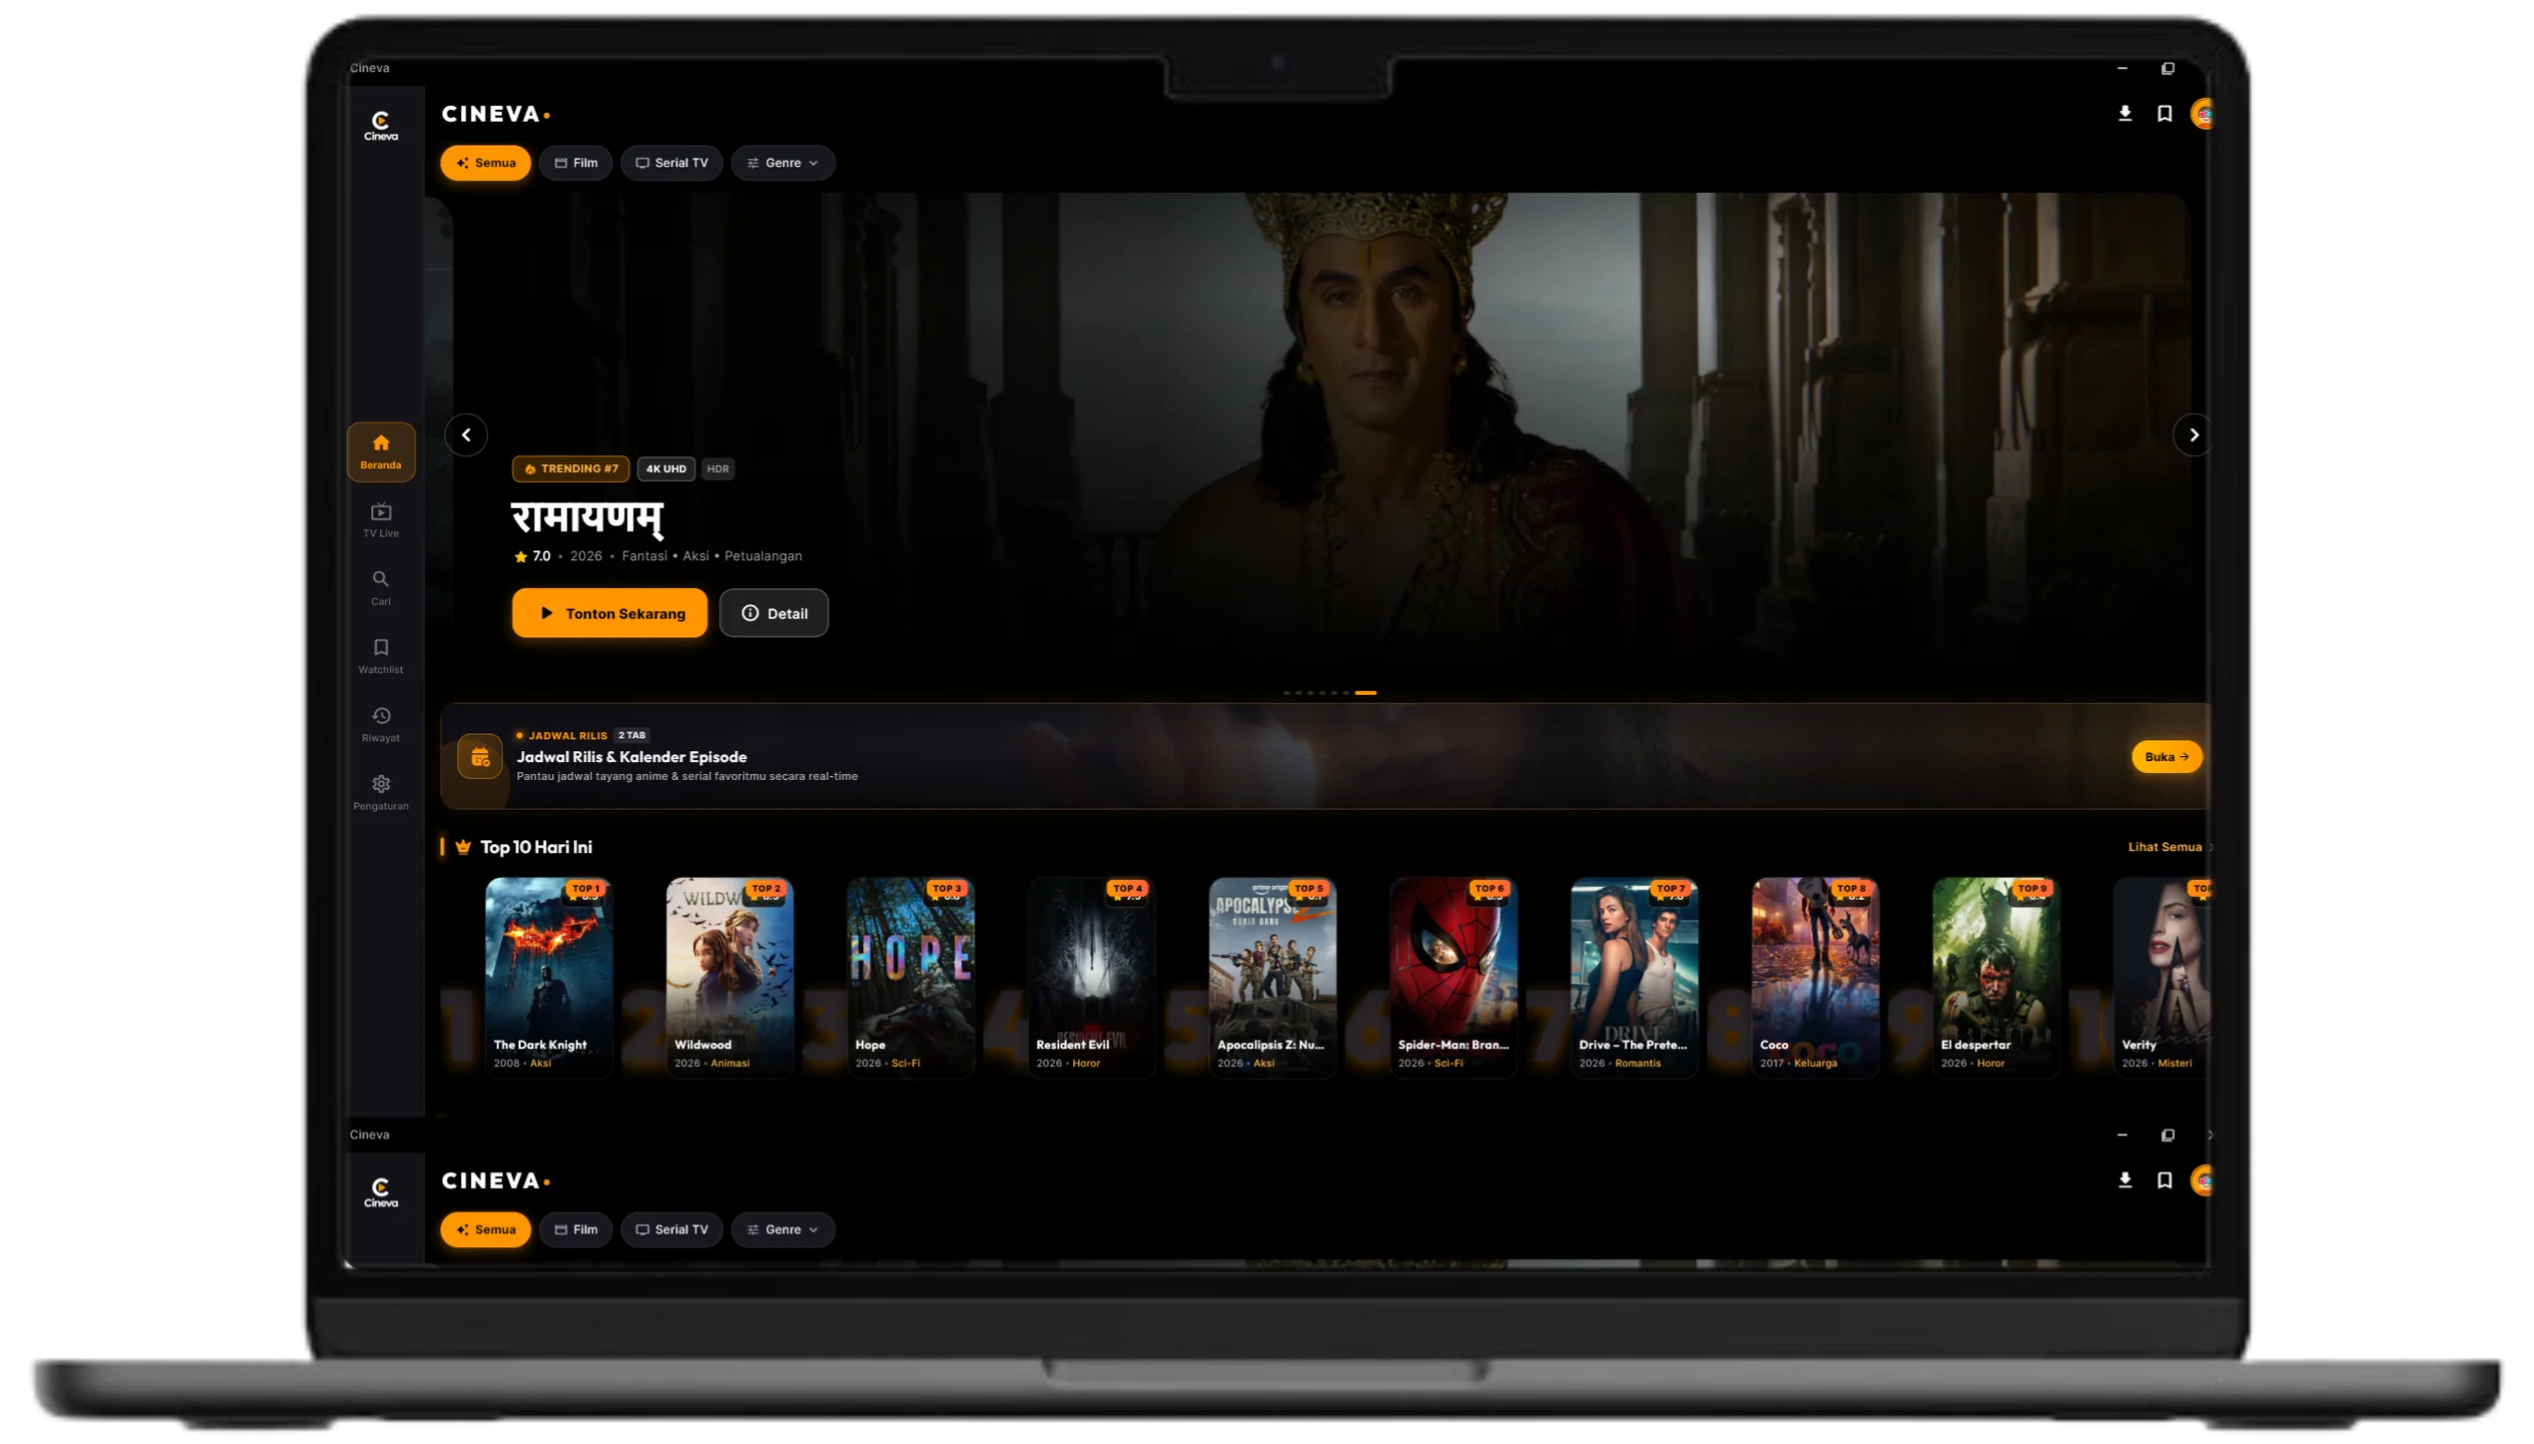
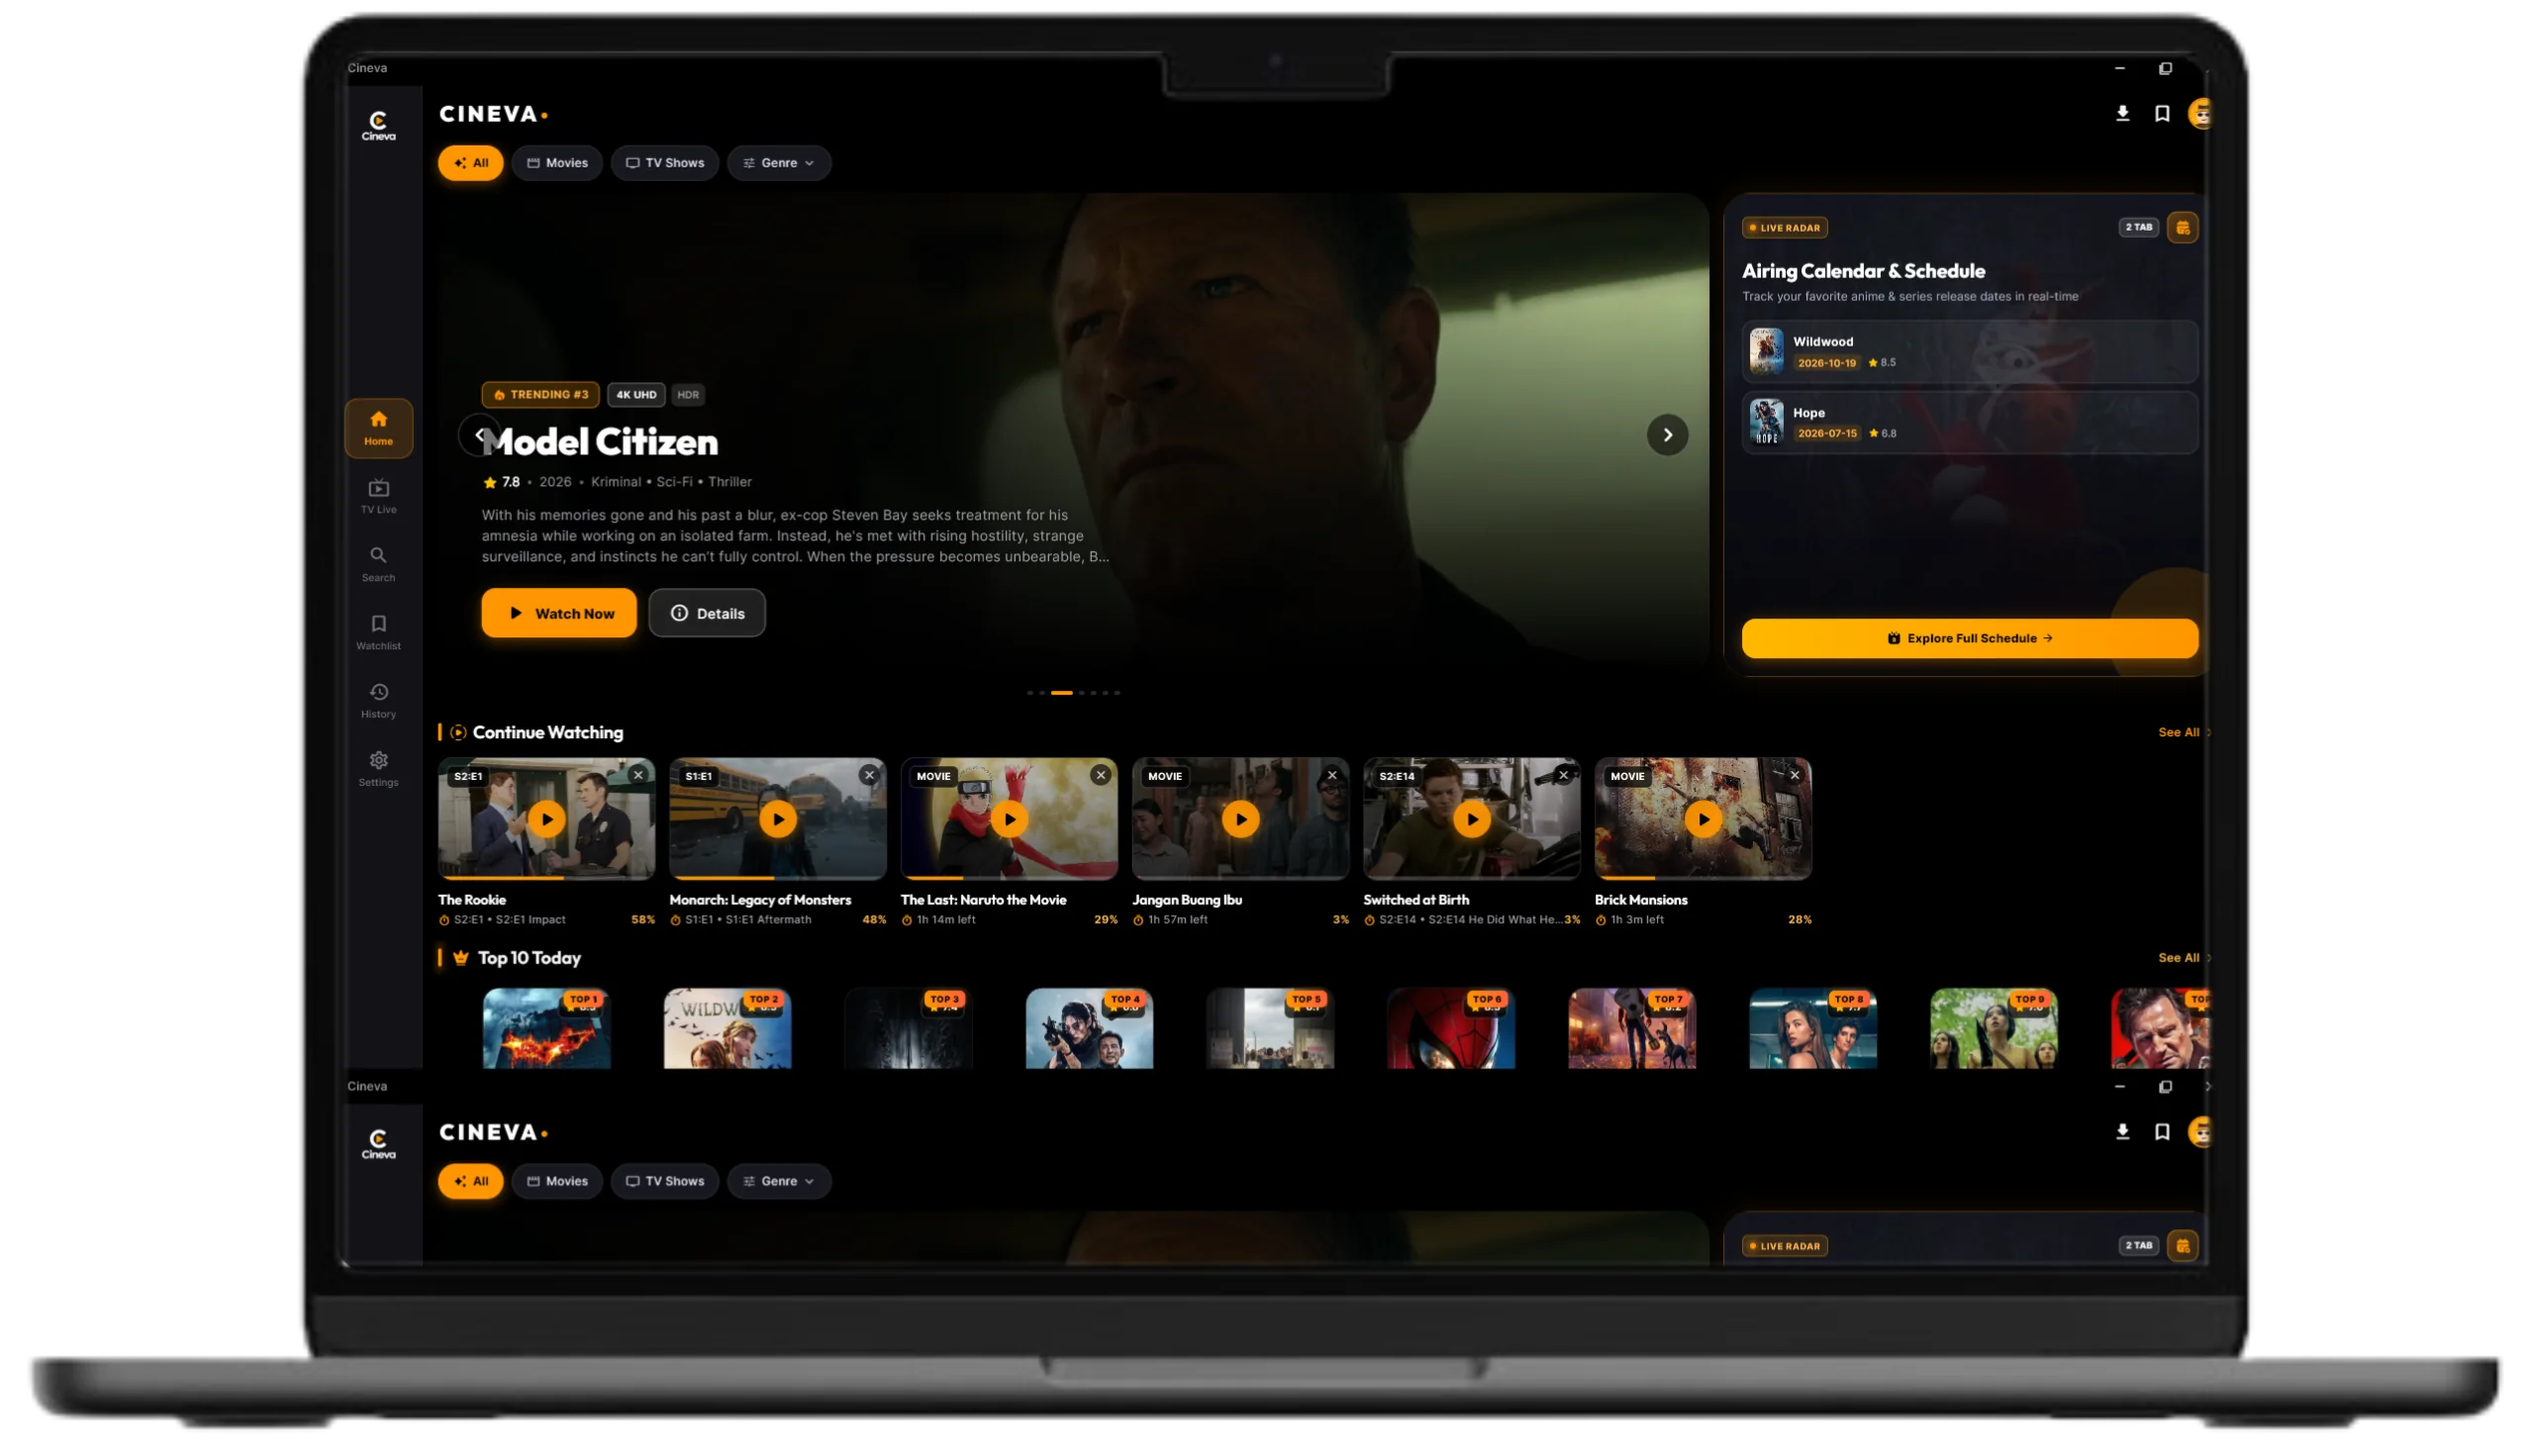
feat(multiplatform): add Android TV WebP screen, update Windows home WebP, and enhance interactive showcase layout

diff --git a/components/Multiplatform.tsx b/components/Multiplatform.tsx
@@ -5,19 +5,44 @@ import { Icon } from "./Icons";
 import { useLanguage } from "@/lib/LanguageContext";
 
 export default function Multiplatform() {
-  const { t } = useLanguage();
+  const { lang, t } = useLanguage();
   const [activeIdx, setActiveIdx] = useState(0);
   const [isPaused, setIsPaused] = useState(false);
   const timerRef = useRef<NodeJS.Timeout | null>(null);
 
   const screens = [
     {
-      src: "/screens/windows_home.webp",
-      alt: "Cineva Home on Windows Desktop",
+      id: "android-tv",
+      platform: "Android TV",
+      tabLabel: "Android TV",
+      icon: "tv",
+      src: "/screens/android_tv.webp",
+      alt: lang === "en" ? "Cineva on Android TV & Smart TV" : "Tampilan Cineva di Android TV & Smart TV",
+      badge: "10-Foot UI",
+      width: 2560,
+      height: 1684,
     },
     {
+      id: "windows-home",
+      platform: "Windows",
+      tabLabel: "Windows Home",
+      icon: "windows",
+      src: "/screens/windows_home.webp",
+      alt: lang === "en" ? "Cineva Home on Windows Desktop" : "Tampilan Beranda Cineva di Windows Desktop",
+      badge: "Widescreen Billboard",
+      width: 2560,
+      height: 1459,
+    },
+    {
+      id: "windows-details",
+      platform: "Windows",
+      tabLabel: "Windows Detail",
+      icon: "windows",
       src: "/screens/windows_details.webp",
-      alt: "Cineva Details on Windows Desktop",
+      alt: lang === "en" ? "Cineva Details on Windows Desktop" : "Tampilan Detail Film Cineva di Windows Desktop",
+      badge: "Cinematic Canvas",
+      width: 2560,
+      height: 1459,
     },
   ];
 
@@ -26,18 +51,18 @@ export default function Multiplatform() {
     if (isPaused) return;
 
     timerRef.current = setInterval(() => {
-      setActiveIdx((prev) => (prev === 0 ? 1 : 0));
+      setActiveIdx((prev) => (prev + 1) % screens.length);
     }, 4500);
 
     return () => {
       if (timerRef.current) clearInterval(timerRef.current);
     };
-  }, [isPaused]);
+  }, [isPaused, screens.length]);
 
   return (
-    <section id="multiplatform" className="sec sec-multiplatform" aria-label="Cineva Windows Desktop">
+    <section id="multiplatform" className="sec sec-multiplatform" aria-label="Cineva Windows Desktop & Android TV">
       <div className="wrap multiplatform-grid">
-        {/* Sisi Kiri: Gambar Windows (Auto Crossfade Slideshow) */}
+        {/* Sisi Kiri: Gambar Multiplatform (Auto Crossfade Slideshow + Interactive Segmented Tabs) */}
         <div
           className="multiplatform-visual"
           data-reveal="scale"
@@ -45,19 +70,39 @@ export default function Multiplatform() {
           onMouseEnter={() => setIsPaused(true)}
           onMouseLeave={() => setIsPaused(false)}
         >
-          {/* Windows Screenshot Container (Clean Tanpa Background) */}
+          {/* Segmented Device Selector Tabs */}
+          <div className="multiplatform-tabs" role="tablist" aria-label="Pilih Tampilan Layar">
+            {screens.map((screen, idx) => (
+              <button
+                key={screen.id}
+                type="button"
+                role="tab"
+                aria-selected={idx === activeIdx}
+                className={`multiplatform-tab-btn ${idx === activeIdx ? "is-active" : ""}`}
+                onClick={() => {
+                  setActiveIdx(idx);
+                  setIsPaused(true);
+                }}
+              >
+                <Icon name={screen.icon} size={15} />
+                <span>{screen.tabLabel}</span>
+              </button>
+            ))}
+          </div>
+
+          {/* Screenshot Container (Clean Tanpa Background dengan aspect-ratio seimbang) */}
           <div className="multiplatform-window-viewport">
             {screens.map((screen, idx) => (
               <div
-                key={screen.src}
+                key={screen.id}
                 className={`multiplatform-slide ${idx === activeIdx ? "is-active" : ""}`}
                 aria-hidden={idx !== activeIdx}
               >
                 <img
                   src={screen.src}
                   alt={screen.alt}
-                  width={2560}
-                  height={1459}
+                  width={screen.width}
+                  height={screen.height}
                   className="multiplatform-window-img"
                   loading="lazy"
                   decoding="async"
@@ -87,6 +132,13 @@ export default function Multiplatform() {
 
         {/* Sisi Kanan: Judul, Deskripsi & Fitur */}
         <div className="multiplatform-copy" data-reveal="up">
+          <span className="hero-badge multiplatform-badge">
+            <Icon name="tv" size={13} />
+            <span className="badge-plus">+</span>
+            <Icon name="windows" size={13} />
+            <span>{t.multiplatform.badge || "WINDOWS & ANDROID TV"}</span>
+          </span>
+
           <h2 className="multiplatform-title">
             <span>{t.multiplatform.title1}</span>{" "}
             <span className="outline">{t.multiplatform.title2}</span>
@@ -101,10 +153,10 @@ export default function Multiplatform() {
               {t.multiplatform.features.map((feat, i) => (
                 <li key={i} className="multiplatform-point-card">
                   <span className="multiplatform-point-icon">
-                    {i === 0 && <Icon name="player" size={16} />}
-                    {i === 1 && <Icon name="stream" size={16} />}
-                    {i === 2 && <Icon name="subtitle" size={16} />}
-                    {i === 3 && <Icon name="download" size={16} />}
+                    {i === 0 && <Icon name="tv" size={16} />}
+                    {i === 1 && <Icon name="player" size={16} />}
+                    {i === 2 && <Icon name="stream" size={16} />}
+                    {i === 3 && <Icon name="wrench" size={16} />}
                   </span>
                   <div className="multiplatform-point-text">
                     <b>{feat.title}</b>

diff --git a/lib/content.ts b/lib/content.ts
@@ -212,11 +212,17 @@ export const translations = {
       },
     },
     multiplatform: {
-      badge: "WINDOWS DESKTOP",
+      badge: "WINDOWS & ANDROID TV",
       title1: "Hadir di layar lebar,",
-      title2: "PC & Laptop.",
-      lead: "Katalog, watchlist, dan pemutar sinematik yang sama, didesain ulang penuh untuk keleluasaan monitor layar lebar dan kontrol keyboard & mouse yang presisi.",
+      title2: "PC & Smart TV.",
+      lead: "Katalog, watchlist, dan pemutar sinematik yang sama, didesain ulang penuh untuk keleluasaan monitor layar lebar PC dan televisi pintar dengan navigasi remote control D-Pad serta kontrol keyboard & mouse yang presisi.",
       screens: [
+        {
+          src: "/screens/android_tv.webp",
+          alt: "Tampilan Cineva di Android TV & Smart TV",
+          label: "Android TV (10-Foot UI)",
+          desc: "Navigasi remote D-Pad, poster zoom 1.11x, dan efek ambient amber glow.",
+        },
         {
           src: "/screens/windows_home.webp",
           alt: "Tampilan Beranda Cineva di Windows Desktop",
@@ -231,6 +237,7 @@ export const translations = {
         },
       ],
       features: [
+        { title: "Android TV (10-Foot UI)", desc: "Navigasi remote D-Pad, poster zoom 1.11x, dan efek ambient amber glow." },
         { title: "Frameless Obsidian UI", desc: "Tampilan borderless minimalis dengan tombol kontrol native." },
         { title: "Smooth Mouse Scrolling", desc: "Guliran mouse super mulus berbasis interpolasi eksponensial." },
         { title: "Pintasan Keyboard Penuh", desc: "Spasi untuk jeda, panah untuk seek & volume boost 150%." },
@@ -573,11 +580,17 @@ export const translations = {
       },
     },
     multiplatform: {
-      badge: "WINDOWS DESKTOP",
+      badge: "WINDOWS & ANDROID TV",
       title1: "Made for the big screen,",
-      title2: "desktop too.",
-      lead: "The same library, watchlist, and cinematic player, redrawn for the widescreen clarity of desktop monitors, keyboard shortcuts, and mouse precision.",
+      title2: "Desktop & Smart TV.",
+      lead: "The same cinematic streaming experience, redrawn for the widescreen clarity of desktop monitors and big-screen Smart TVs with 10-foot D-Pad remote navigation and precise keyboard & mouse controls.",
       screens: [
+        {
+          src: "/screens/android_tv.webp",
+          alt: "Cineva on Android TV & Smart TV",
+          label: "Android TV (10-Foot UI)",
+          desc: "10-foot D-Pad remote navigation, 1.11x poster zoom, and ambient amber glow.",
+        },
         {
           src: "/screens/windows_home.webp",
           alt: "Cineva Home on Windows Desktop",
@@ -592,6 +605,7 @@ export const translations = {
         },
       ],
       features: [
+        { title: "Android TV (10-Foot UI)", desc: "10-foot D-Pad remote navigation, 1.11x poster zoom, and ambient amber glow." },
         { title: "Frameless Obsidian UI", desc: "Minimal borderless dark window with integrated title controls." },
         { title: "Smooth Mouse Scrolling", desc: "Buttery-smooth scrolling powered by exponential interpolation." },
         { title: "Keyboard Shortcuts", desc: "Space for play/pause, arrows for seeking and 150% volume boost." },

diff --git a/app/globals.css b/app/globals.css
@@ -7672,11 +7672,58 @@ html.has-reveal .tile.is-visible:hover {
   align-items: center;
 }
 
+.multiplatform-tabs {
+  display: inline-flex;
+  align-items: center;
+  gap: 6px;
+  background: rgba(255, 255, 255, 0.035);
+  border: 1px solid rgba(255, 255, 255, 0.08);
+  padding: 4px;
+  border-radius: 999px;
+  margin-bottom: 18px;
+  backdrop-filter: blur(8px);
+}
+.multiplatform-tab-btn {
+  display: inline-flex;
+  align-items: center;
+  gap: 7px;
+  padding: 6px 14px;
+  border-radius: 999px;
+  border: none;
+  background: transparent;
+  color: var(--muted);
+  font-family: inherit;
+  font-size: 12.5px;
+  font-weight: 600;
+  cursor: pointer;
+  transition: all 0.22s cubic-bezier(0.16, 1, 0.3, 1);
+  white-space: nowrap;
+}
+.multiplatform-tab-btn:hover {
+  color: var(--text);
+  background: rgba(255, 255, 255, 0.06);
+}
+.multiplatform-tab-btn.is-active {
+  color: #120b00;
+  background: var(--amber);
+  box-shadow: 0 2px 10px rgba(255, 149, 0, 0.35);
+}
+.multiplatform-badge {
+  display: inline-flex;
+  align-items: center;
+  gap: 6px;
+  margin-bottom: 16px;
+  width: fit-content;
+}
+.multiplatform-badge .badge-plus {
+  opacity: 0.5;
+  font-size: 11px;
+}
 /* Viewport Gambar Windows (Clean Tanpa Background) */
 .multiplatform-window-viewport {
   position: relative;
   width: 100%;
-  aspect-ratio: 2560 / 1459;
+  aspect-ratio: 2560 / 1520;
   border-radius: 12px;
   overflow: hidden;
   background: transparent;
@@ -7713,6 +7760,8 @@ html.has-reveal .tile.is-visible:hover {
 }
 
 .multiplatform-window-img {
+  filter: drop-shadow(0 14px 28px rgba(0, 0, 0, 0.5));
+  object-fit: contain !important;
   width: 100%;
   height: 100%;
   object-fit: cover;
